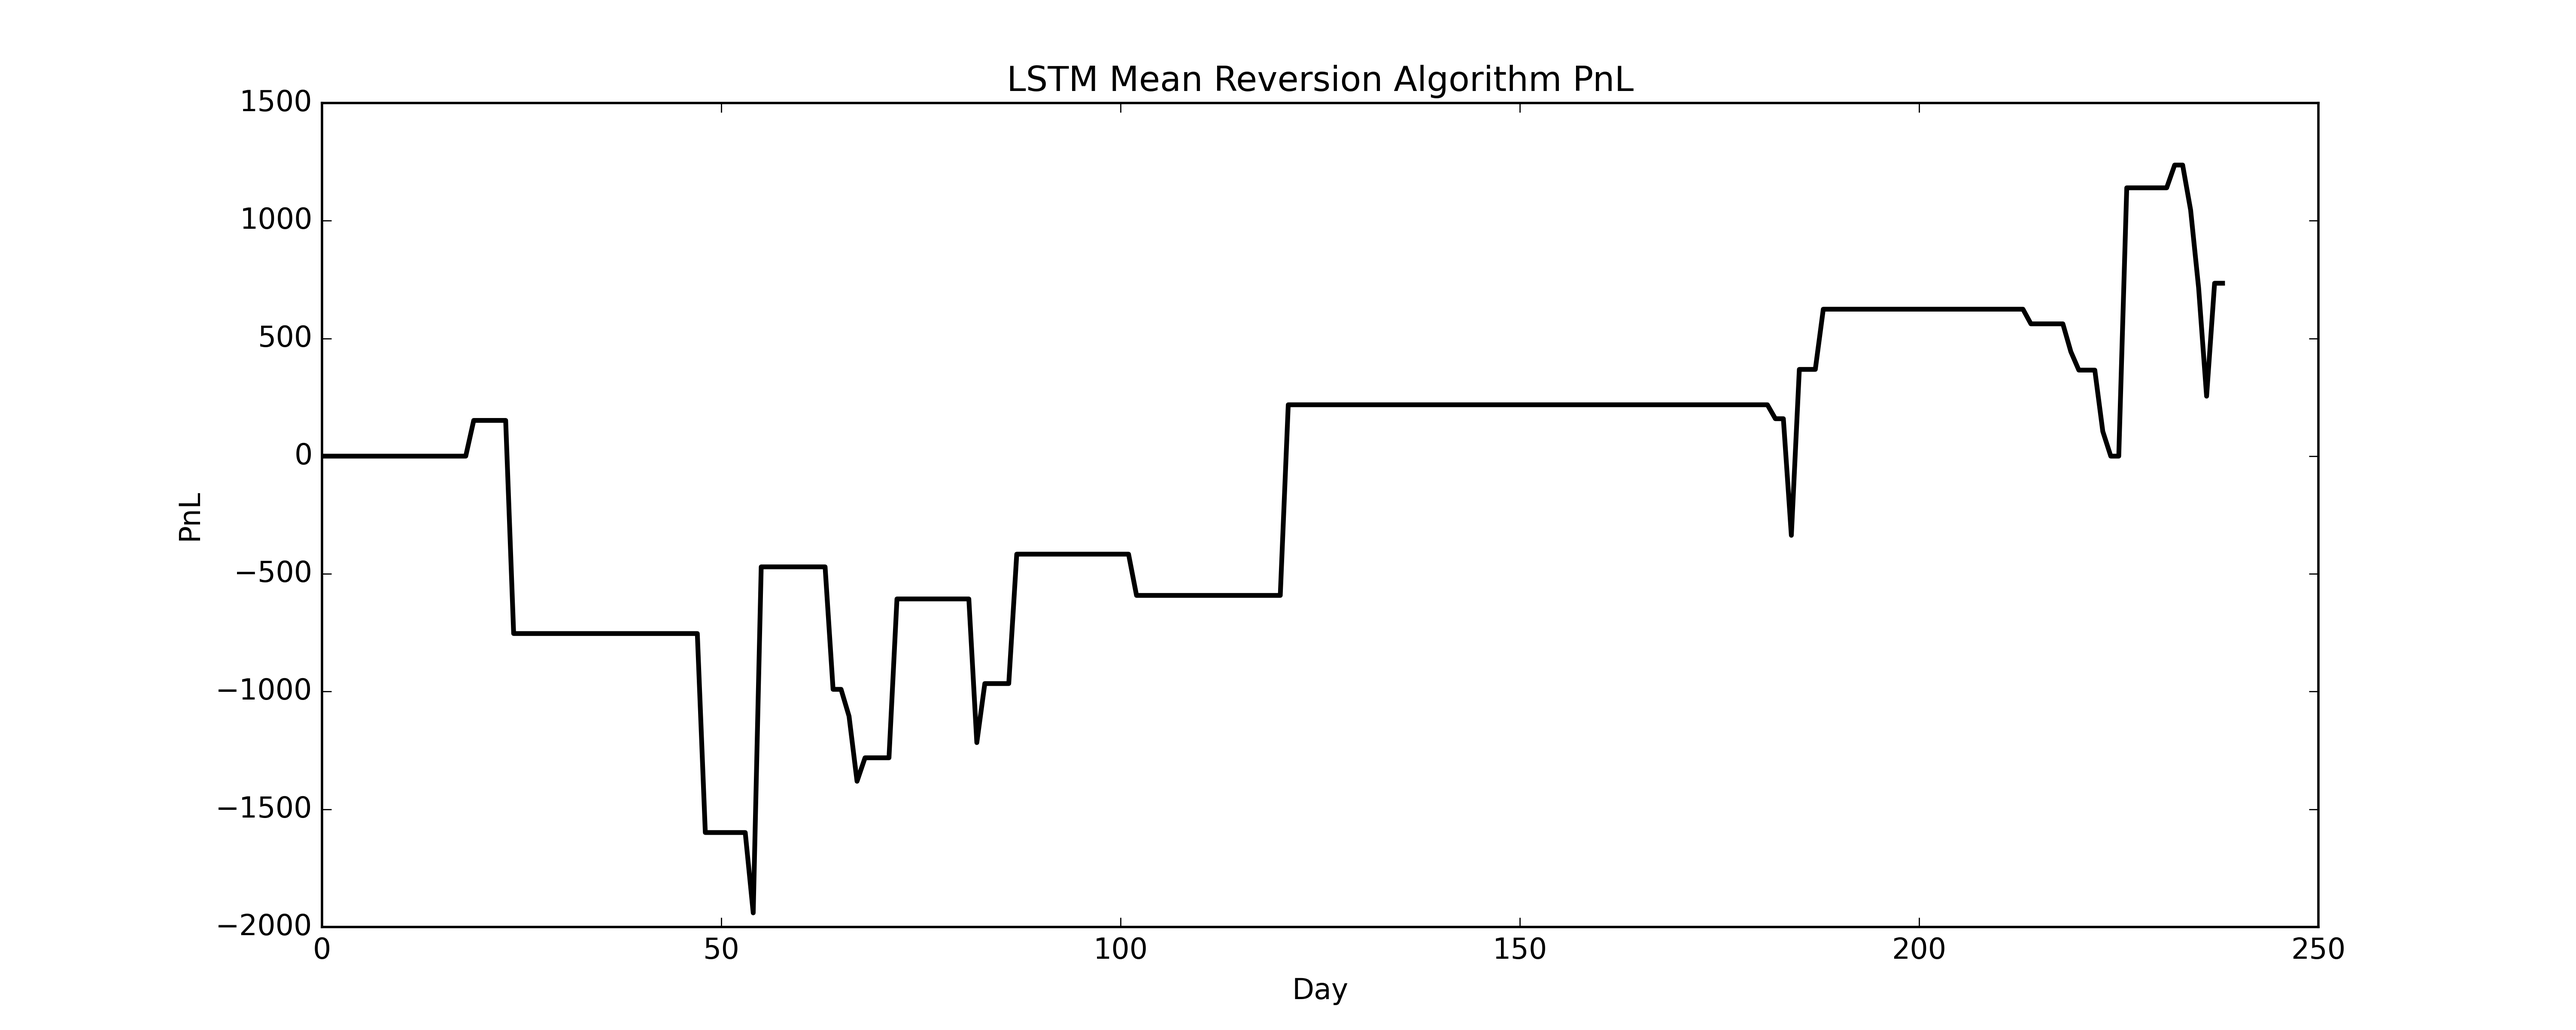
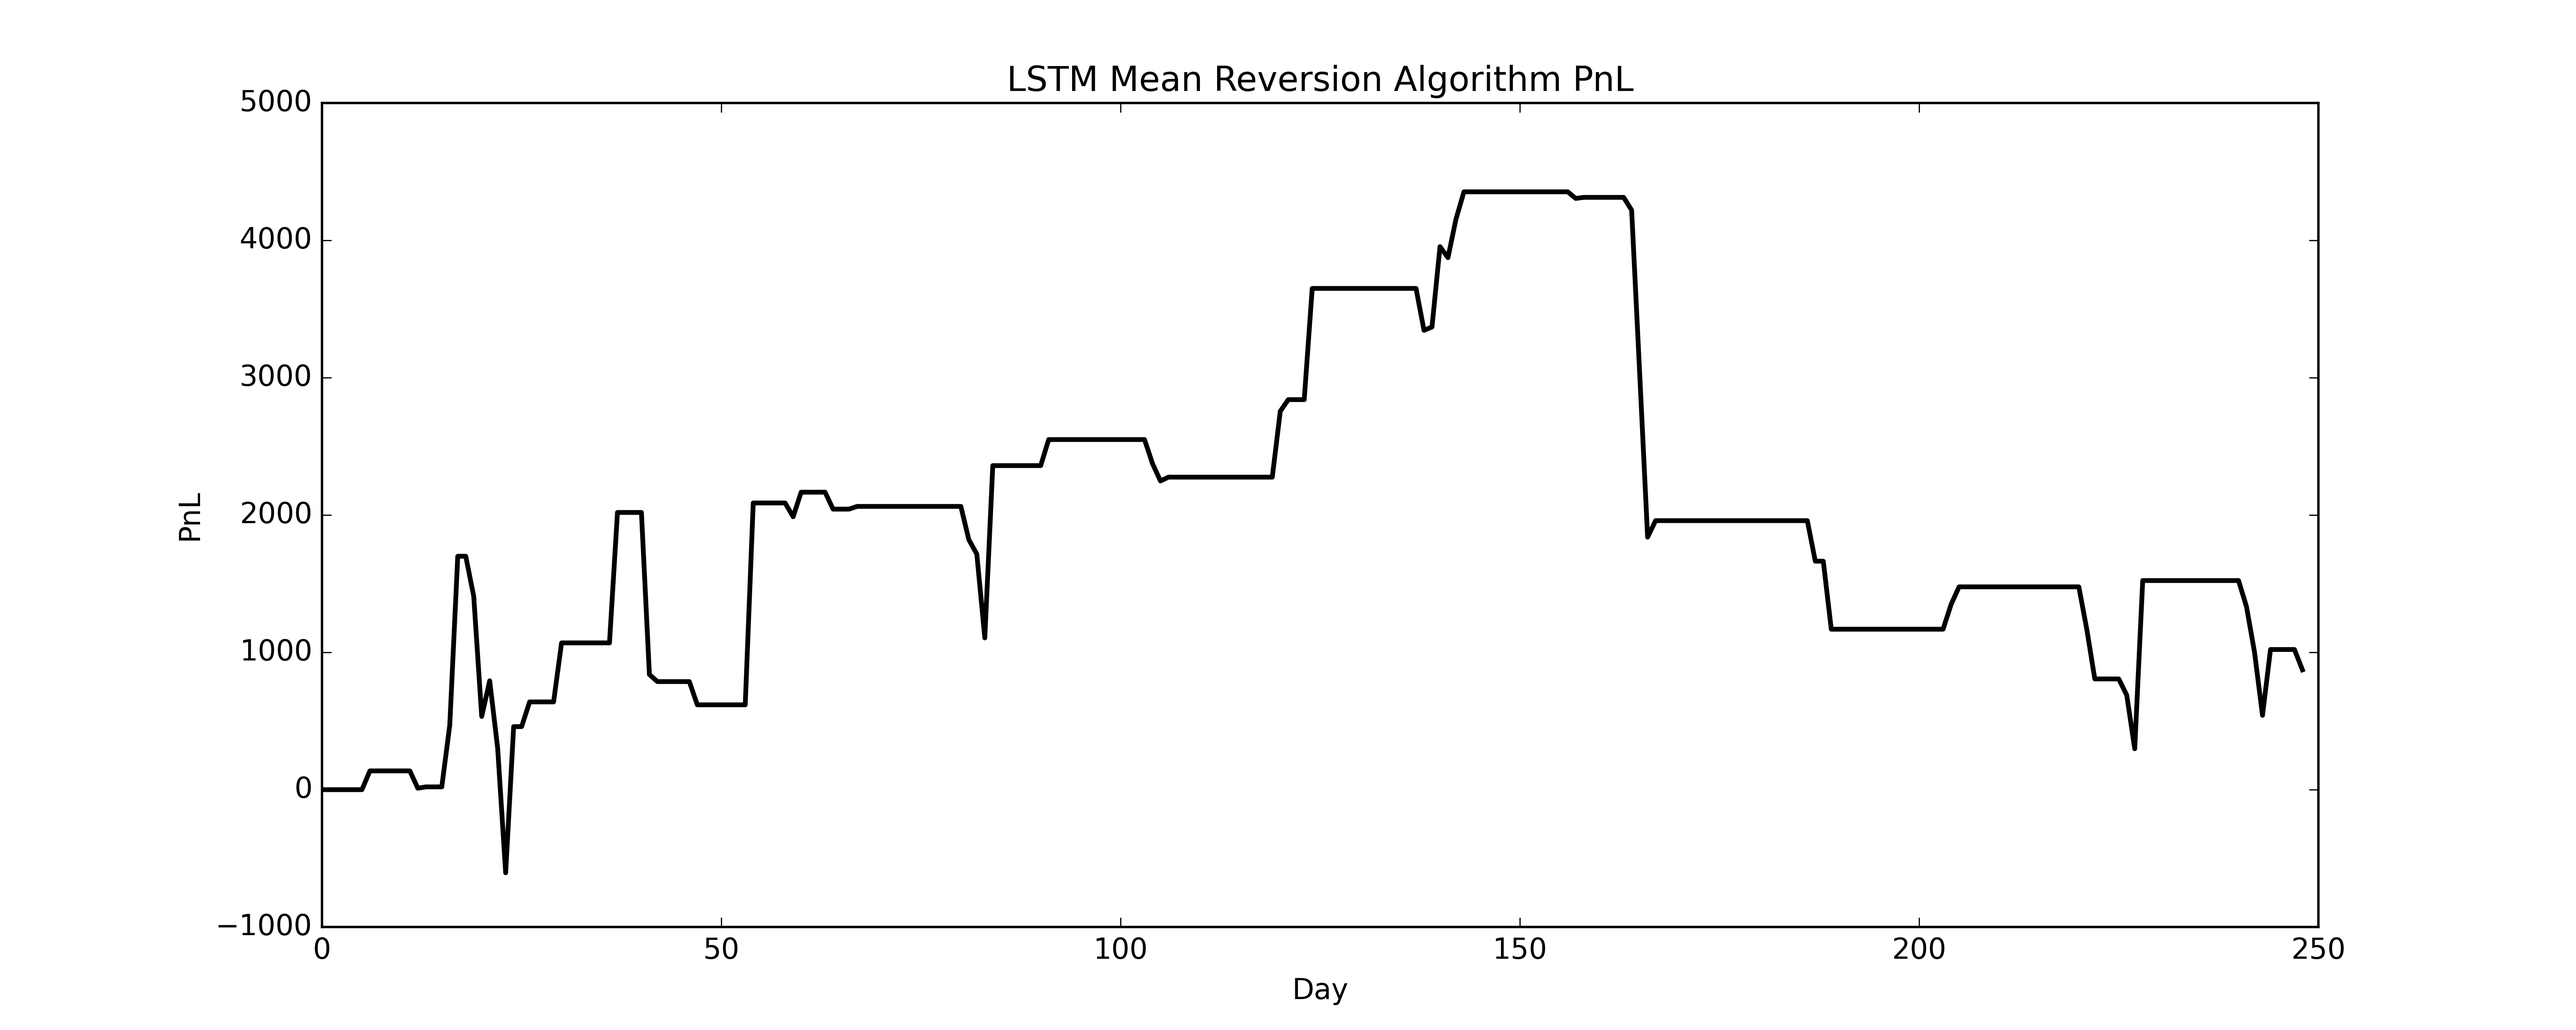
Add files via upload

diff --git a/18082024_LSTM_Brent_Algo.py b/18082024_LSTM_Brent_Algo.py
@@ -3,79 +3,93 @@ import datetime as dt
 import yfinance as yf
 import pandas as pd
 import matplotlib.pyplot as plt
-import matplotlib.dates as mdates
-from tensorflow.keras import layers, Input
-from tensorflow.keras.models import Sequential
 from sklearn.preprocessing import MinMaxScaler
 from sklearn.metrics import mean_absolute_error, mean_squared_error, r2_score
-
-# Ideas List:
-# Things like moving averages could be included
-# More features related to brent and energy
-# LASSO regression?
-# Dropout layers? - Expensive and more training time
-# Multiple LSTM layers? - Expensive and more training time
-# Hyperparamter tuning using optuna for number of neurons in LSTM
+from keras import layers, Sequential, Input
 
 START_DATE = dt.datetime.now() - dt.timedelta(days=365 * 10)
 END_DATE = dt.datetime.now()
 
 # Given a list of features, collect market data using Yahoo Finance function.
 
-FEATURES = ["BZ=F", "CL=F", "NG=F", "^TNX", "EURUSD=X", "CNY=X"]
+FEATURES = [
+    ("BZ=F", ["Open", "Adj Close", "Volume"]),
+    ("CL=F", ["Open", "Adj Close", "Volume"]),
+    ("NG=F", ["Open", "Adj Close", "Volume"]),
+    ("^TNX", ["Open", "Adj Close"]),
+    ("EURUSD=X", ["Open", "Adj Close"]),
+    ("CNY=X", ["Open", "Adj Close"]),
+]
+
+# Construct sequences for LSTM input.
+
+SEQUENCE_LENGTH = 3
 
 df = pd.DataFrame()
-for feature in FEATURES:
-    fetched_df = (
-        yf.download(feature, start=START_DATE, end=END_DATE)
-        .drop(["Close", "Volume", "Low", "High"], axis=1)
-        .add_suffix(" " + feature)
-    )
-    df = pd.concat([df, fetched_df], axis=1)
+for asset, features in FEATURES:
+    fetched_df = yf.download(asset, start=START_DATE, end=END_DATE)[features]
+    for i in features:
+        for j in range(SEQUENCE_LENGTH - 1, -1, -1):
+            df[f"{i} {asset} - {j}"] = fetched_df[i].shift(j)
 
 # The aim of the neural network is to predict the next price, this the target.
 
-df["Target"] = df["Adj Close BZ=F"].shift(-1)
+df["Target"] = df["Adj Close BZ=F - 0"].shift(-1)
 df = df.dropna()
+
+noRows = df.shape[0]
+noFeats = int((df.shape[1] - 1) / SEQUENCE_LENGTH)  # Excluding target column.
 
 # Split the DataFrame containing features into training, cross-validation and testing data.
 
 TRAIN_SPLIT = 0.8
 VAL_SPLIT = 0.1
 
-noRows = df.shape[0]
+train = df.drop("Target", axis=1).iloc[0 : int(noRows * TRAIN_SPLIT), :]
+y_train = np.array(df["Target"].iloc[0 : int(noRows * TRAIN_SPLIT)])
+val = df.drop("Target", axis=1).iloc[int(noRows * TRAIN_SPLIT) : int(noRows * (TRAIN_SPLIT + VAL_SPLIT)), :]
+y_val = np.array(df["Target"][int(noRows * TRAIN_SPLIT) : int(noRows * (TRAIN_SPLIT + VAL_SPLIT))])
+test = df.drop("Target", axis=1).iloc[int(noRows * (TRAIN_SPLIT + VAL_SPLIT)) :, :]
+y_test = np.array(df["Target"][int(noRows * (TRAIN_SPLIT + VAL_SPLIT)) :])
 
-train = df.iloc[0 : int(noRows * TRAIN_SPLIT), :]
-val = df.iloc[int(noRows * TRAIN_SPLIT) : int(noRows * (TRAIN_SPLIT + VAL_SPLIT)), :]
-test = df.iloc[int(noRows * (TRAIN_SPLIT + VAL_SPLIT)) :, :]
-
-X_train, y_train = train.drop("Target", axis=1).values, train["Target"].values
-X_val, y_val = val.drop("Target", axis=1).values, val["Target"].values
-X_test, y_test = test.drop("Target", axis=1).values, test["Target"].values
-
-# Feature scaling using scikit-learn
+# Conduct feature scaling using scikit-learn.
 
 scaler = MinMaxScaler()
-X_train = scaler.fit_transform(X_train)
-X_val = scaler.transform(X_val)
-X_test = scaler.transform(X_test)
+train = scaler.fit_transform(train)
+val = scaler.transform(val)
+test = scaler.transform(test)
 
 # Reshape into a suitable form for LSTM (# of samples, # of sequences, # of features).
 
-X_train = np.reshape(X_train, (X_train.shape[0], 1, X_train.shape[1]))
-X_val = np.reshape(X_val, (X_val.shape[0], 1, X_val.shape[1]))
-X_test = np.reshape(X_test, (X_test.shape[0], 1, X_test.shape[1]))
+X_train = np.zeros([train.shape[0], SEQUENCE_LENGTH, noFeats])
+X_val = np.zeros([val.shape[0], SEQUENCE_LENGTH, noFeats])
+X_test = np.zeros([test.shape[0], SEQUENCE_LENGTH, noFeats])
+
+for i in range(train.shape[0]):
+    for j in range(SEQUENCE_LENGTH):
+        for k in range(noFeats):
+            X_train[i, j, k] = train[i, k * SEQUENCE_LENGTH + j]
+
+for i in range(val.shape[0]):
+    for j in range(SEQUENCE_LENGTH):
+        for k in range(noFeats):
+            X_val[i, j, k] = val[i, j + k * SEQUENCE_LENGTH]
+
+for i in range(test.shape[0]):
+    for j in range(SEQUENCE_LENGTH):
+        for k in range(noFeats):
+            X_test[i, j, k] = test[i, j + k * SEQUENCE_LENGTH]
 
 # Construct neural network using LSTM architecture.
 
 LSTM_NEURONS = 64
-EPOCHS = 50
+EPOCHS = 300
 
-std = df["Adj Close BZ=F"].pct_change().dropna().std()
+std = df["Adj Close BZ=F - 0"].pct_change().dropna().std()
 
 model = Sequential(
     [
-        Input(shape=(1, X_train.shape[2])),
+        Input(shape=(SEQUENCE_LENGTH, noFeats)),
         layers.GaussianNoise(std),
         layers.LSTM(units=LSTM_NEURONS),
         layers.Dense(units=1),
@@ -87,7 +101,7 @@ model.compile(loss="mean_squared_error", optimizer="adamax")
 h = model.fit(X_train, y_train, validation_data=(X_val, y_val), epochs=EPOCHS, batch_size=1)
 y_test_hat = model.predict(X_test)
 
-# Plot predictions and model loss
+# Plot predictions and model loss.
 
 csfont = {"fontname": "Helvetica"}
 blmbg_black = "#000000"
@@ -101,15 +115,37 @@ y_train_hat = model.predict(X_train)
 y_val_hat = model.predict(X_val)
 
 plt.figure(figsize=(15, 6))
-plt.plot(df.index, df["Target"], label="True Close Price", color=blmbg_black, linewidth=1.3)
-plt.plot(df.iloc[0 : int(noRows * TRAIN_SPLIT), :].index, y_train_hat, label="Training Predictions", color=blmbg_blue, linewidth=1.3)
-plt.plot(df.iloc[int(noRows * TRAIN_SPLIT) : int(noRows * (TRAIN_SPLIT + VAL_SPLIT)), :].index, y_val_hat, label="Cross-Validation Predictions", color=blmbg_red, linewidth=1.3)
-plt.plot(df.iloc[int(noRows * (TRAIN_SPLIT + VAL_SPLIT)) :, :].index, y_test_hat, label="Testing Predictions", color=blmbg_or, linewidth=1.3)
+plt.plot(
+    df.index, df["Target"], label="True Close Price", color=blmbg_black, linewidth=1.3
+)
+plt.plot(
+    df.iloc[0 : int(noRows * TRAIN_SPLIT), :].index,
+    y_train_hat,
+    label="Training Predictions",
+    color=blmbg_blue,
+    linewidth=1.3,
+)
+plt.plot(
+    df.iloc[
+        int(noRows * TRAIN_SPLIT) : int(noRows * (TRAIN_SPLIT + VAL_SPLIT)), :
+    ].index,
+    y_val_hat,
+    label="Cross-Validation Predictions",
+    color=blmbg_red,
+    linewidth=1.3,
+)
+plt.plot(
+    df.iloc[int(noRows * (TRAIN_SPLIT + VAL_SPLIT)) :, :].index,
+    y_test_hat,
+    label="Testing Predictions",
+    color=blmbg_or,
+    linewidth=1.3,
+)
 plt.title("LSTM Brent Crude Price Prediction")
 plt.xlabel("Year")
 plt.ylabel("Price")
 plt.legend(loc="upper left")
-plt.savefig("Algo_Predictions.png", dpi=400)
+# plt.savefig("Algo_Predictions.png", dpi=400)
 plt.show()
 
 fig, ax = plt.subplots(1, 2, figsize=(15, 6))
@@ -120,15 +156,17 @@ ax[0].set_xlabel("Day")
 ax[0].set_ylabel("Price")
 ax[0].legend()
 ax[1].plot(h.history["loss"], label="Training Loss", color=blmbg_blue, linewidth=1.3)
-ax[1].plot(h.history["val_loss"], label="Validation Loss", color=blmbg_red, linewidth=1.3)
+ax[1].plot(
+    h.history["val_loss"], label="Validation Loss", color=blmbg_red, linewidth=1.3
+)
 ax[1].set_title("LSTM Model Loss")
 ax[1].set_xlabel("Epochs")
 ax[1].set_ylabel("Loss")
 ax[1].legend()
-plt.savefig("Algo_Test_Predictions.png", dpi=400)
+# plt.savefig("Algo_Test_Predictions.png", dpi=400)
 plt.show()
 
-# Compute metrics.
+# Compute accuracy metrics.
 
 mae = mean_absolute_error(y_test, y_test_hat)
 mse = mean_squared_error(y_test, y_test_hat)
@@ -140,7 +178,7 @@ print(f"Mean Squared Error (MSE): {mse:.2f}")
 print(f"Root Mean Squared Error (RMSE): {rmse:.2f}")
 print(f"R-squared (R²): {r2:.2f}")
 
-# Mean-reversion algorithm
+# Constructing a mean-reversion algorithm.
 
 buy = np.zeros([int(noRows * (1 - TRAIN_SPLIT - VAL_SPLIT)) - 1])
 sell = np.zeros([int(noRows * (1 - TRAIN_SPLIT - VAL_SPLIT)) - 1])
@@ -154,13 +192,13 @@ buy_plot = np.zeros([int(noRows * (1 - TRAIN_SPLIT - VAL_SPLIT)) - 1])
 sell_plot = np.zeros([int(noRows * (1 - TRAIN_SPLIT - VAL_SPLIT)) - 1])
 
 predicted_price = y_test_hat[:, 0]
-actual_price = df["Open BZ=F"].iloc[int(noRows * (TRAIN_SPLIT + VAL_SPLIT)) + 1 :].values
-exit_price = df["Open BZ=F"].iloc[int(noRows * (TRAIN_SPLIT + VAL_SPLIT)) + 1 :].shift(-1).values
+actual_price = df["Open BZ=F - 0"].iloc[int(noRows * (TRAIN_SPLIT + VAL_SPLIT)) + 1 :].values
+exit_price = df["Open BZ=F - 0"].iloc[int(noRows * (TRAIN_SPLIT + VAL_SPLIT)) + 1 :].shift(-1).values
 
-BASPREAD = df["Open BZ=F"].pct_change().dropna().std()
+# Using an artificial transaction cost based on the standard deviation of the Brent open price.
 
-# S1 = 1 (bid ask spread overrides any potential profit)
-S2, S3 = 10, 50
+BASPREAD = df["Open BZ=F - 0"].pct_change().dropna().std()
+S1, S2 = 10, 50
 
 for i in range(int(noRows * (1 - TRAIN_SPLIT - VAL_SPLIT)) - 1):
     pred = predicted_price[i]
@@ -168,36 +206,28 @@ for i in range(int(noRows * (1 - TRAIN_SPLIT - VAL_SPLIT)) - 1):
     exit = exit_price[i]
     if pred > curr:
         if pred > (1 + BASPREAD)**1.2 * curr:
-            buy[i] = S3 * curr + BASPREAD
-            buy_exit[i] = S3 * exit 
+            buy[i] = S2 * curr + BASPREAD
+            buy_exit[i] = S2 * exit 
             buy_plot[i] = curr
             buy_big[i] = curr
         elif pred > (1 + BASPREAD) * curr:
-            buy[i] = S2 * curr + BASPREAD
-            buy_exit[i] = S2 * exit
+            buy[i] = S1 * curr + BASPREAD
+            buy_exit[i] = S1 * exit
             buy_plot[i] = curr
             buy_small[i] = curr
-        # else:
-        #     buy[i] = S1 * curr
-        #     buy_exit[i] = S1 * exit
-        #     buy_plot[i] = curr
     else:
         if pred < (1 - BASPREAD)**1.2 * curr:
-            sell[i] = S3 * curr
-            sell_exit[i] = S3 * exit + BASPREAD
-            sell_plot[i] = curr
-            sell_big[i] = curr
-        elif pred < (1 - BASPREAD) * curr:
             sell[i] = S2 * curr
             sell_exit[i] = S2 * exit + BASPREAD
             sell_plot[i] = curr
+            sell_big[i] = curr
+        elif pred < (1 - BASPREAD) * curr:
+            sell[i] = S1 * curr
+            sell_exit[i] = S1 * exit + BASPREAD
+            sell_plot[i] = curr
             sell_small[i] = curr
-        # else:
-        #     sell[i] = S1 * curr
-        #     sell_exit[i] = S1 * exit
-        #     sell_plot[i] = curr
 
-# Compute pnl and plot illustrative graphs
+# Compute alpha generated and plot illustrative graphs.
 
 pnl = (-np.cumsum(buy) + np.cumsum(buy_exit) + np.cumsum(sell) - np.cumsum(sell_exit)) * 10
 
@@ -218,40 +248,12 @@ plt.plot(
     linestyle="None",
     label="Sell $p < (1-\\sigma)a$",
 )
-# plt.plot(
-#     buy_big,
-#     color="y",
-#     marker="^",
-#     linestyle="None",
-#     label="3xL Buy $p > (1+\\sigma)^{1.2}a$",
-# )
-# plt.plot(
-#     buy_small,
-#     color="g",
-#     marker="^",
-#     linestyle="None",
-#     label="1xL Buy $(1+\\sigma)^{1.2}a > p > (1+\\sigma)a$",
-# )
-# plt.plot(
-#     sell_small,
-#     color="r",
-#     marker="v",
-#     linestyle="None",
-#     label="1xL Sell $(1-\\sigma)^{1.2}a < p < (1-\\sigma)a$",
-# )
-# plt.plot(
-#     sell_big,
-#     color="m",
-#     marker="v",
-#     linestyle="None",
-#     label="3xL Sell $p < (1-\\sigma)^{1.2}a$",
-# )
 plt.title("LSTM Mean Reversion Algorithm")
 plt.xlabel("Day")
 plt.ylabel("Price")
 plt.ylim(0.8 * np.min(actual_price), 1.2 * np.max(actual_price))
 plt.legend()
-plt.savefig("Algo_Signals.png", dpi=400)
+# plt.savefig("Algo_Signals.png", dpi=400)
 plt.show()
 
 plt.figure(figsize=(15, 6))
@@ -259,5 +261,5 @@ plt.plot(pnl, color=blmbg_black, linewidth=2)
 plt.title("LSTM Mean Reversion Algorithm PnL")
 plt.xlabel("Day")
 plt.ylabel("PnL")
-plt.savefig("Algo_PnL.png", dpi=400)
+# plt.savefig("Algo_PnL.png", dpi=400)
 plt.show()
